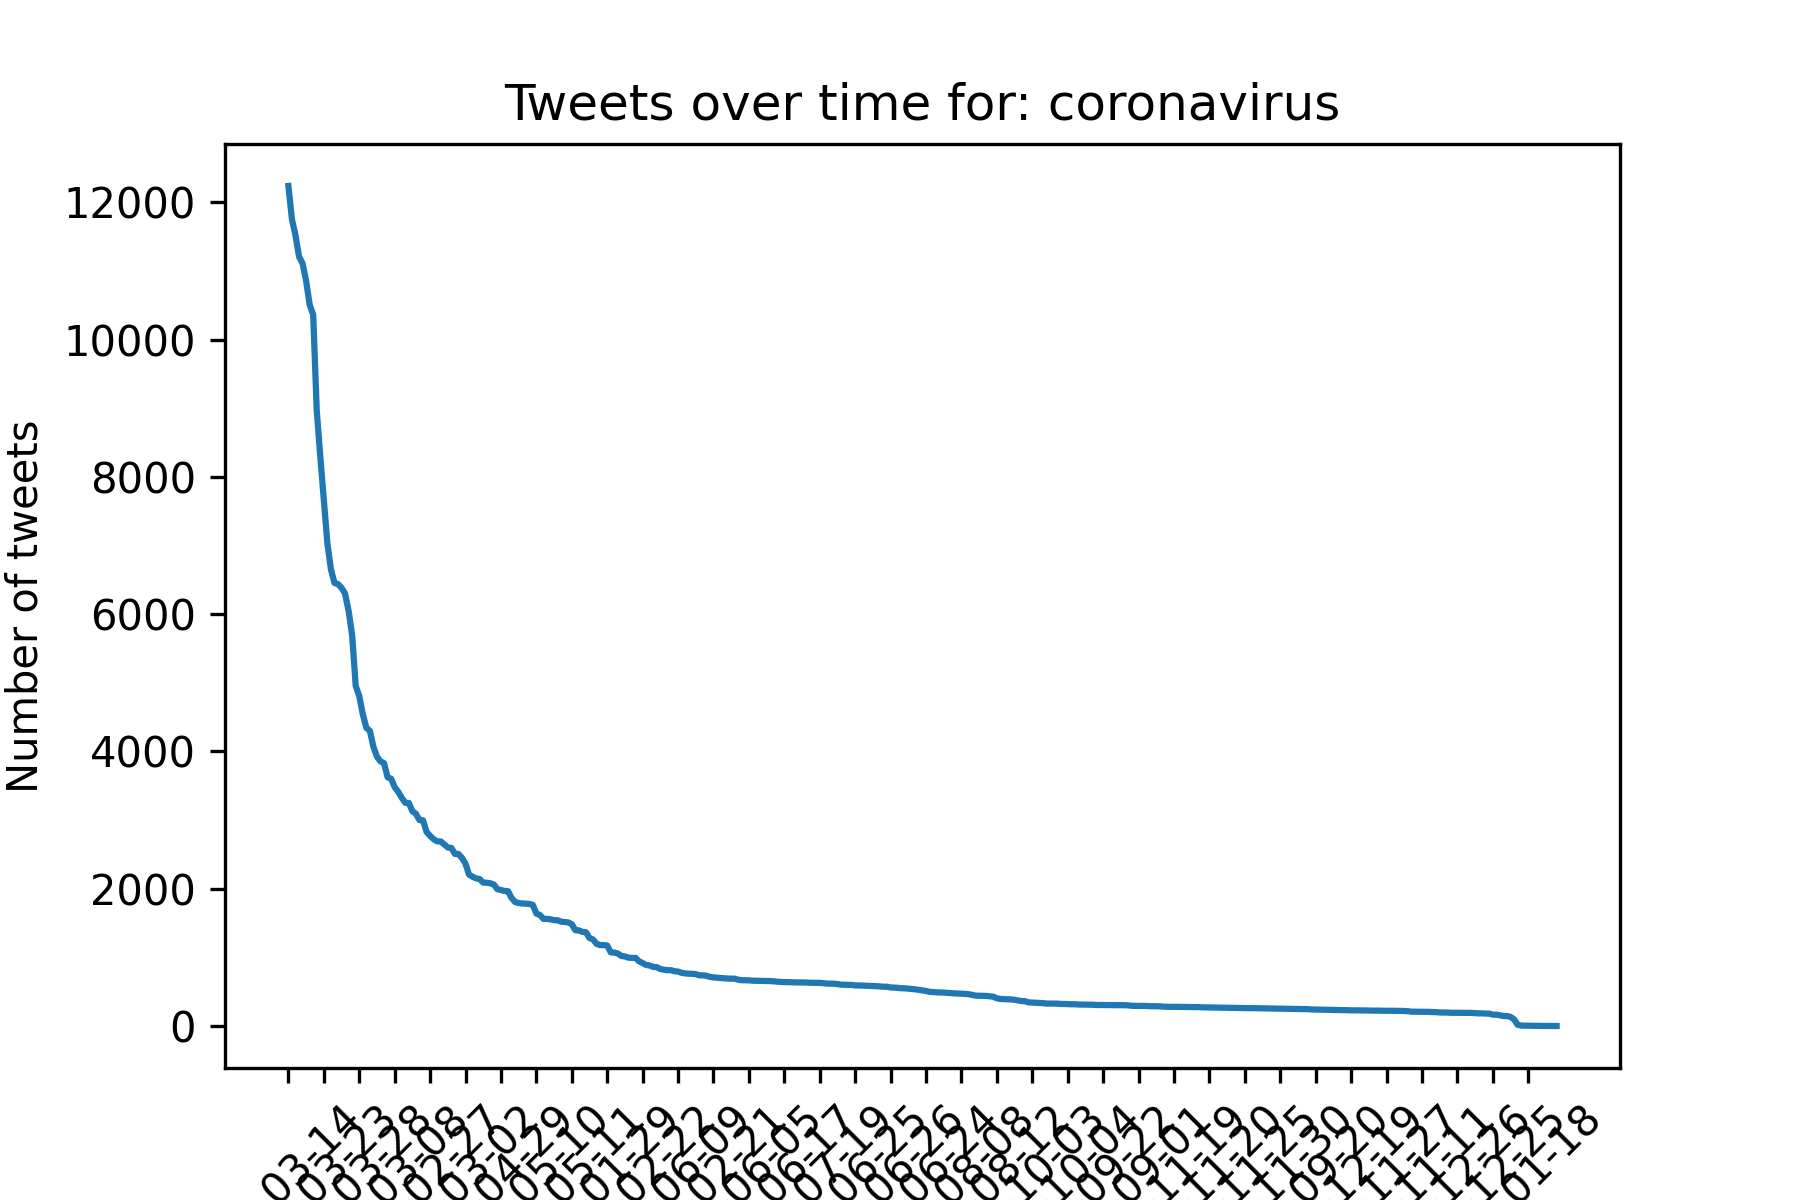
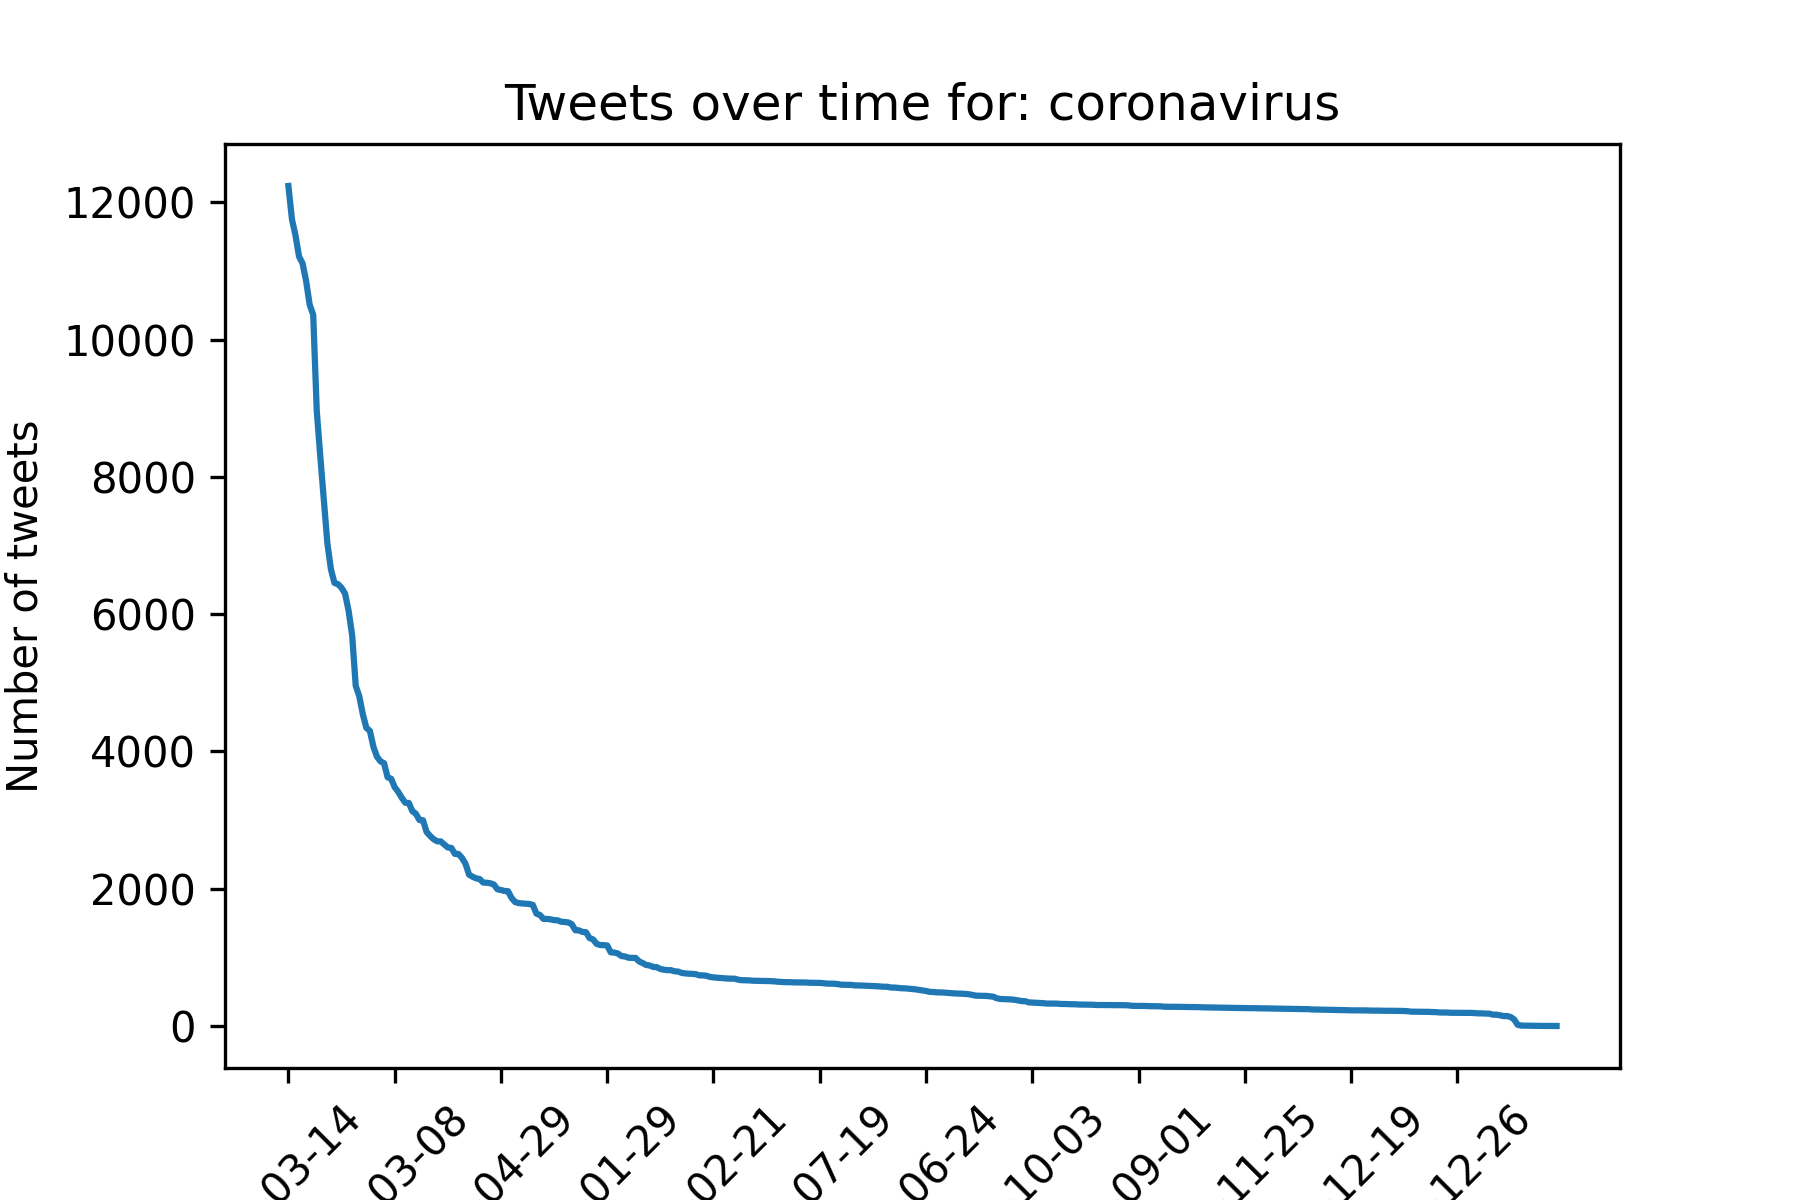
test4

Changed region(s): [[0.1556, 0.925, 0.9022, 1.0]]

diff --git a/src/alternative_reduce.py b/src/alternative_reduce.py
@@ -81,7 +81,7 @@ categories, values = zip(*items)
 plt.figure(figsize=(6, 4))
 plt.plot(categories, values)
 
-plt.xticks(categories[::10], rotation=45)
+plt.xticks(categories[::30], rotation=45)
 
 plt.ylabel("Number of tweets")
 plt.xlabel("Date")
